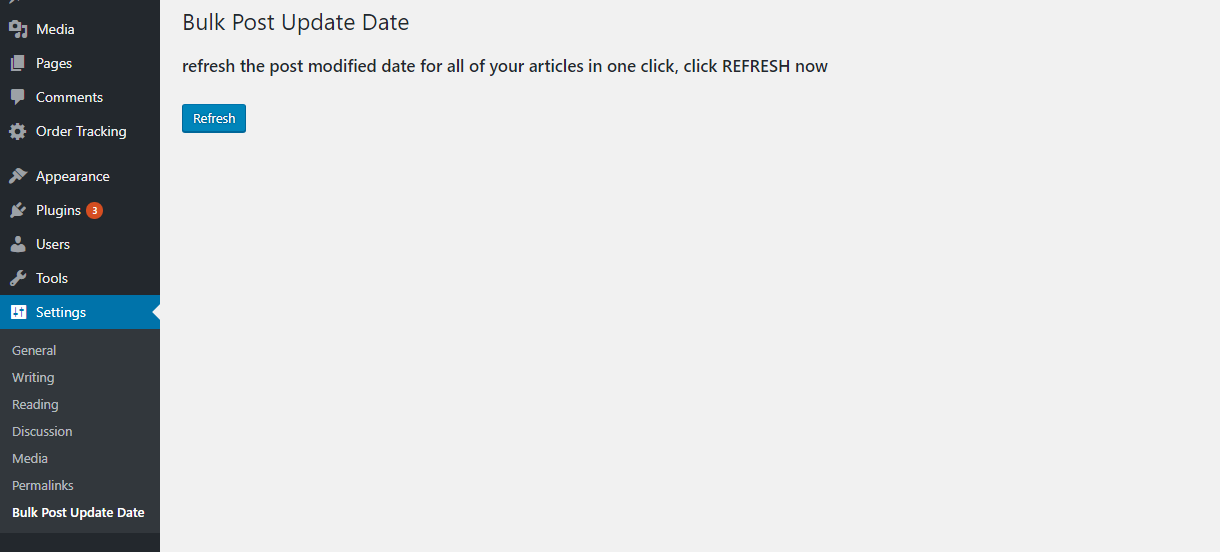
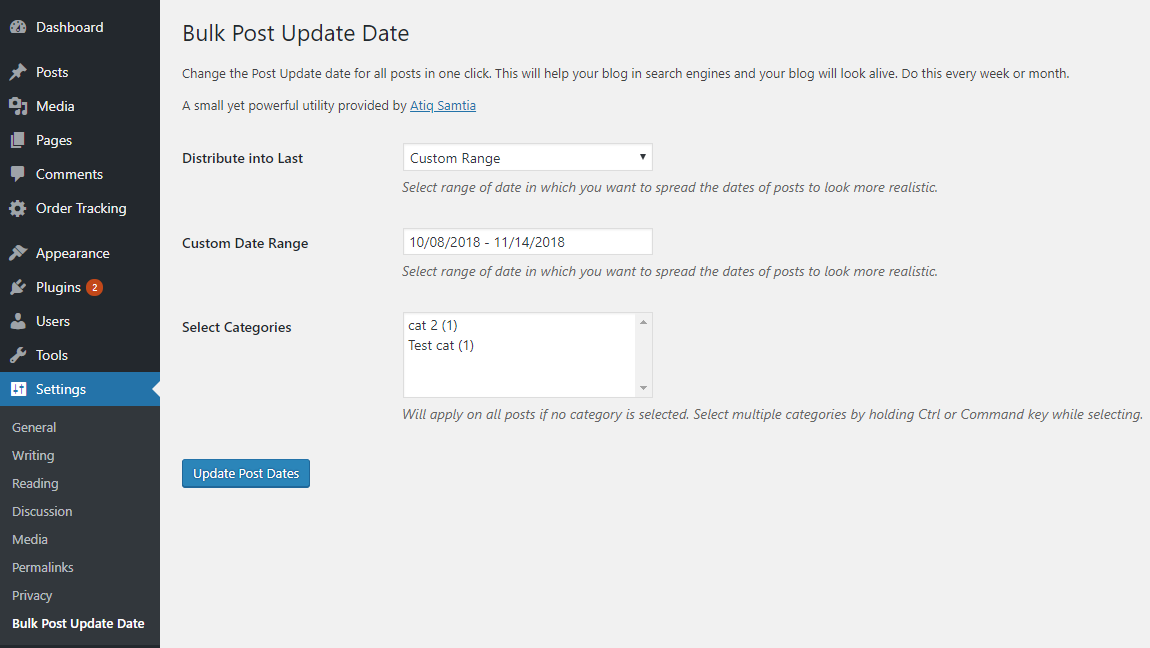
Time Interval Support Categories support.

diff --git a/index.php b/index.php
@@ -1,7 +1,7 @@
 <?php
 /*
  * Plugin Name: Bulk Post Update Date
- * Version: 1.0.2
+ * Version: 1.1.0
  * Description: Change the Post Update date for all posts in one click. This will help your blog in search engines and your blog will look alive. Do this every week or month. (Tip By Waqas Jawed in Bloggers Funda - facebook group)
  * Author: Atiq Samtia
  * Author URI: http://atiqsamtia.com
@@ -40,24 +40,36 @@ function bulk_post_update_date_options() {
 	if ( isset( $_POST[ 'tb_refresh' ] ) && wp_verify_nonce( $_POST['tb_refresh'],'tb-refresh' ) && current_user_can( 'manage_options' ) ) {
 
         // get All posts IDs
-        //TODO: ADD categories and date filtering functionality in next Release.
+
+        $params = array(
+		        'numberposts' => -1,
+		        'fields'        => 'ids'
+	        );
+
+        if(isset( $_POST['categories'])){
+            $params['cat'] = implode( ',', $_POST['categories']);
+        }
 
         $ids = get_posts(
-            array(
-                'numberposts' => -1,
-                'fields'        => 'ids'
-            )
+                $params
         );
+
+        $from = $_POST['distribute'];
+        $to = time();
+
+        if($from == 0){
+            $range = explode( '-',$_POST['range']);
+            if(count( $range) == 2){
+                    $from = strtotime( $range[0]);
+                    $to = strtotime( $range[1]);
+            } else {
+                $from = strtotime( '-3 hours');
+            }
+        }
 
         foreach($ids as $id){
 
-            //Random Seconds to substract from time so that it would not set the same time for every post
-
-            $seconds = rand(1, 60 * 30);
-
-            $time = current_time('mysql');
-            $time = strtotime($time);
-            $time = $time - $seconds;
+	        $time = rand($from,$to);
             $time = date("Y-m-d H:i:s",$time);
 
             $wpdb->query(
@@ -67,12 +79,21 @@ function bulk_post_update_date_options() {
                      get_gmt_from_date($time),
                      $id
                     )
-                );   
+                );
         }
         $settings_saved = count($ids);
 	}
 
+	wp_enqueue_script('momentjs','https://cdn.jsdelivr.net/momentjs/latest/moment.min.js');
+	wp_enqueue_script('daterangepicker','https://cdn.jsdelivr.net/npm/daterangepicker/daterangepicker.min.js');
+	wp_enqueue_style('daterangepicker','https://cdn.jsdelivr.net/npm/daterangepicker/daterangepicker.css');
+
 	?>
+    <style>
+      .form-table input, .form-table select{
+          min-width: 250px;
+      }
+    </style>
 
 	<div class="wrap">
 		<h1><?php _e( 'Bulk Post Update Date', 'bulk-post-update-date' ); ?></h1>
@@ -81,20 +102,98 @@ function bulk_post_update_date_options() {
 				<p><strong><?php _e( "$settings_saved Posts Update date refreshed." ) ?></strong></p>
 			</div>
 		<?php endif ?>
-		<h2>
-			<?php _e( 'refresh the post modified date for all of your articles in one click, click REFRESH now', 'bulk-post-update-date' ) ?>
-		</h2>
+		<p>
+			<?php _e( 'Change the Post Update date for all posts in one click. This will help your blog in search engines and your blog will look alive. Do this every week or month.', 'bulk-post-update-date' ) ?>
+        </p>
+        <p>
+            <?php _e( 'A small yet powerful utility  provided by <a href="http://atiqsamtia.com">Atiq Samtia</a>', 'bulk-post-update-date' ) ?>
+		</p>
 		<form method="post" action="">
-			<div>
-				
 
-			</div>
+            <table class="form-table">
+
+                <tr valign="top">
+                    <th scope="row"><label for="distribute">Distribute into Last</label></th>
+                    <td>
+
+                        <select type="text" id="distribute" name="distribute">
+                            <option value="<?php echo strtotime( '-1 hour');?>">1 hour</option>
+                            <option value="<?php echo strtotime( '-1 day');?>">1 Day</option>
+                            <option value="<?php echo strtotime( '-15 days');?>">15 Days</option>
+                            <option value="<?php echo strtotime( '-1 month');?>">1 Month</option>
+                            <option value="<?php echo strtotime( '-2 month');?>">2 Months</option>
+                            <option value="<?php echo strtotime( '-3 month');?>">3 Months</option>
+                            <option value="<?php echo strtotime( '-6 month');?>">6 Months</option>
+                            <option value="0">Custom Range</option>
+                        </select>
+                        <p class="description">
+                            Select range of date in which you want to spread the dates of posts to look more realistic.
+                        </p>
+                    </td>
+                </tr>
+                <tr id="range_row" valign="top" style="display: none;">
+                    <th scope="row"><label for="range">Custom Date Range</label></th>
+                    <td>
+
+                        <input type="text" id="range" name="range" value="<?php echo date('m/d/y',strtotime( '-3 days'));?> - <?php echo date('m/d/y');?>" />
+                        <p class="description">
+                            Select range of date in which you want to spread the dates of posts to look more realistic.
+                        </p>
+                    </td>
+                </tr>
+
+                <tr valign="top">
+                    <th scope="row"><label for="categories">Select Categories</label></th>
+                    <td>
+
+                        <select multiple="multiple" id="categories" name="categories[]">
+
+		                    <?php
+		                    $args       = array(
+			                    'orderby' => 'name',
+                                'exclude' => '1'
+		                    );
+		                    $categories = get_categories( $args );
+		                    foreach ( $categories as $category ) { ?>
+
+                                <option value="<?php echo $category->term_id; ?>">
+				                    <?php echo $category->cat_name . ' (' . $category->category_count . ')'; ?>
+                                </option>
+		                    <?php } //endforeach ?>
+                        </select>
+                            <p class="description">
+                            Will apply on all posts if no category is selected. Select multiple categories by holding Ctrl or Command key while selecting.
+                        </p>
+                    </td>
+                </tr>
+
+            </table>
+
 			<p class="submit">
                 <input name="tb_refresh" type="hidden" value="<?php echo wp_create_nonce('tb-refresh'); ?>" />
-				<input class="button-primary" name="do" type="submit" value="<?php _e( 'Refresh' ) ?>" />
+				<input class="button-primary" name="do" type="submit" value="<?php _e( 'Update Post Dates' ) ?>" />
 			</p>
 		</form>
 	</div>
+
+    <script>
+        jQuery(function(){
+
+            jQuery('input[name="range"]').daterangepicker({
+                maxDate: '<?php echo date('m/d/y');?>'
+            });
+
+            jQuery('#distribute').change(function(){
+                let val = jQuery(this).val();
+                if(val == 0)
+                    jQuery('#range_row').fadeIn();
+                else
+                    jQuery('#range_row').fadeOut();
+
+            })
+
+        });
+    </script>
 
 <?php
 }
